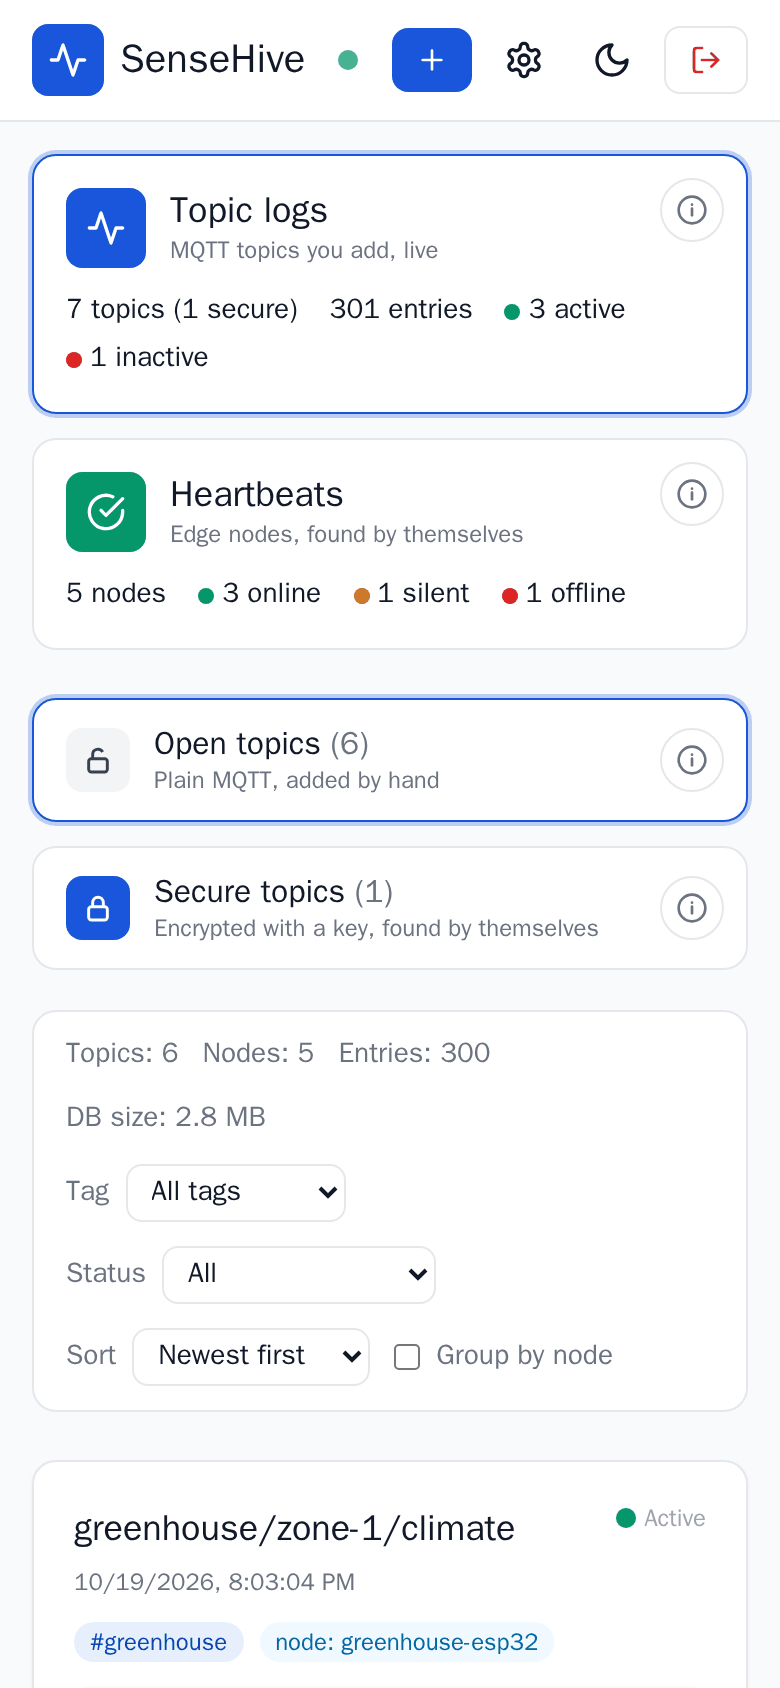
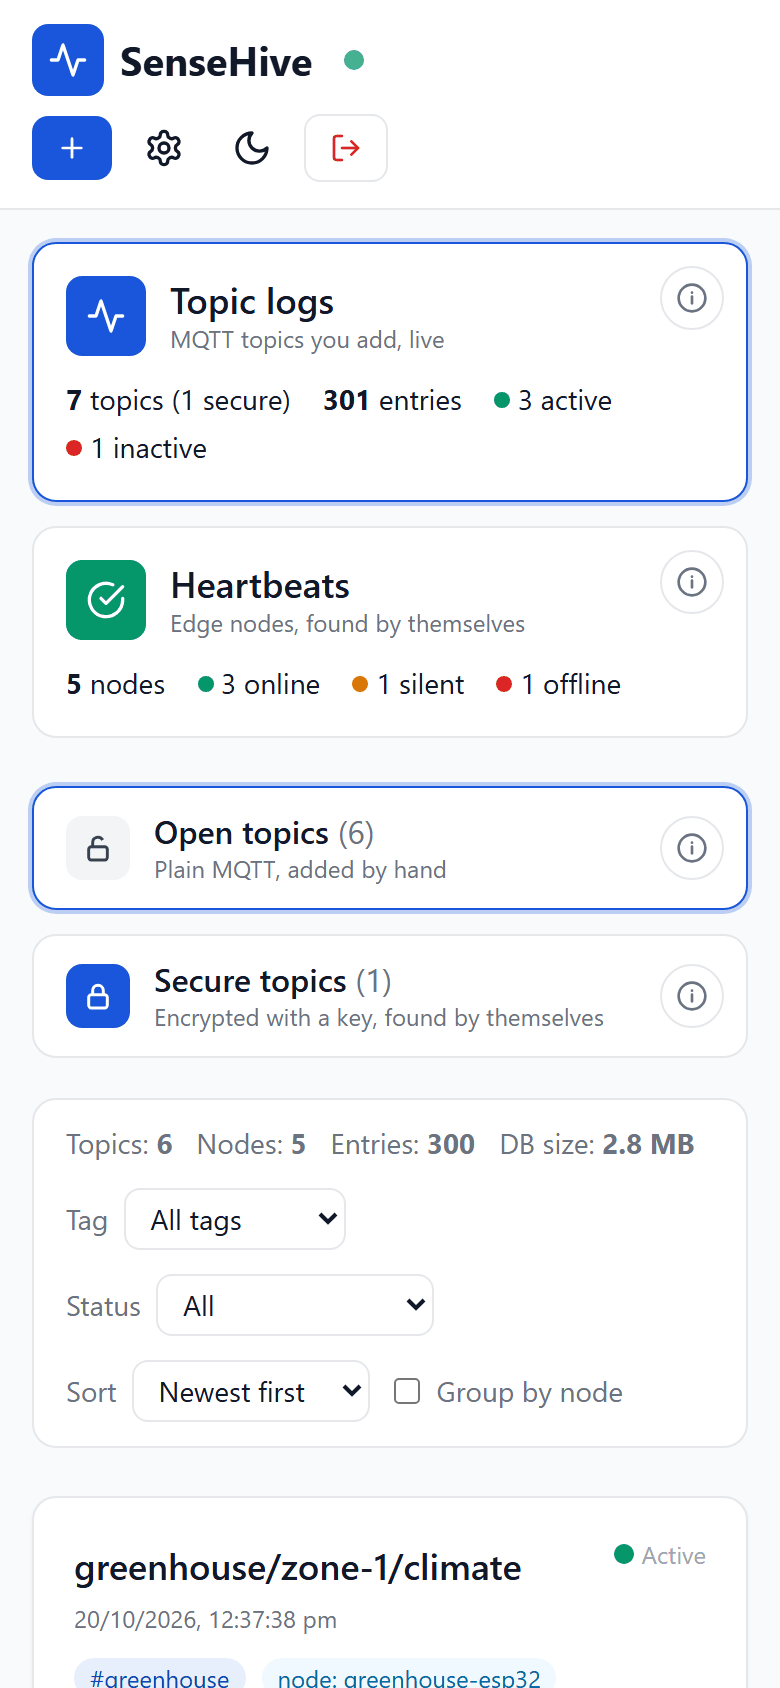
Docs: the live demo, a current CI table, and screenshots with the heartbeat broker connected
The README, Docker Hub page and docs index link the public demo
(sense-hive-latest.onrender.com, the :demo tag). DEVELOPMENT.md lists
every CI job as it runs today. tools/screenshots.py --broker now also
connects the heartbeat receiver, so the Heartbeats pictures show
'Connected to the heartbeat broker' instead of 'Not connected'; the
uptime wait no longer trips on a zero-height first bar.

diff --git a/tools/screenshots.py b/tools/screenshots.py
@@ -7,7 +7,7 @@ browser UI test fills its own, but with an example site (greenhouse, cold room,
 pump house...) instead of the test's edge cases. Made-up data, no real devices.
 
     python tools/screenshots.py                          # writes assets/*.png
-    python tools/screenshots.py --broker 127.0.0.1:1883  # "Connected" in the header
+    python tools/screenshots.py --broker 127.0.0.1:1883  # "Connected" in the header and on Heartbeats
 """
 import argparse
 import os
@@ -70,7 +70,8 @@ def main():
     os.makedirs(OUT, exist_ok=True)
     if a.broker:
         host, _, port = a.broker.partition(':')
-        os.environ.update(DEFAULT_BROKER_HOST=host, DEFAULT_BROKER_PORT=port or '1883', SENSEHIVE_FORCE_BROKER='true')
+        os.environ.update(DEFAULT_BROKER_HOST=host, DEFAULT_BROKER_PORT=port or '1883', SENSEHIVE_FORCE_BROKER='true',
+                          HEARTBEAT_BROKER=host, HEARTBEAT_PORT=port or '1883', HEARTBEAT_TLS='false')
     random.seed(11)
     base = ui_test.serve(5098)
     import time
@@ -83,6 +84,7 @@ def main():
         conn.commit()
     if a.broker:
         sensehive.init_mqtt()                        # as `sensehive` does at start
+        sensehive.heartbeat_receiver.start(sensehive.new_mqtt_client)   # "Connected to the heartbeat broker"
     from playwright.sync_api import sync_playwright
     with sync_playwright() as pw:
         browser = pw.chromium.launch()
@@ -137,7 +139,8 @@ def main():
         ui_test.settle(page)
         shot(page, 'heartbeat-history.png')
         page.click('.sh-modal [data-range="7d"]')
-        page.wait_for_selector('.sh-modal svg rect', timeout=15000)
+        # a bar with height: the first one may be a day with no downtime (height 0)
+        page.locator('.sh-modal svg rect[height]:not([height="0"])').first.wait_for(timeout=15000)
         ui_test.settle(page)
         shot(page, 'heartbeat-uptime.png')
         page.keyboard.press('Escape')

diff --git a/docs/DEVELOPMENT.md b/docs/DEVELOPMENT.md
@@ -132,14 +132,21 @@ Every pull request and push to `main` runs (all required for merging):
 
 | Job | Checks |
 | --- | ------ |
-| Tests (Python 3.9, 3.11, 3.12, 3.13; paho-mqtt 1.x) | pytest against a real Mosquitto broker |
-| Lint and static checks | ruff, no em dashes in text |
-| Security scans | Bandit, pip-audit |
-| Front-end build | `npm ci` and `npm run check` |
-| Browser UI | `tools/ui_test.py --min-checks 140` |
-| pip package | wheel build, install in a clean venv, CLI smoke test |
-| Docker image | build, no database in the image, health check, CSP header and static files served |
+| Tests (several Python versions; paho-mqtt 1.x) | pytest against a real Mosquitto broker |
+| Lint and static checks | ruff, no em dashes in text, no private names (a secret list) |
+| Security scans | Bandit (also `demo/`), pip-audit |
+| Front-end build | `npm ci` and `npm run check`, nothing loaded from another host |
+| Browser UI | `tools/ui_test.py --min-checks 500`: every page and dialog, phone to desktop, zoom 67 to 200 % |
+| pip package | wheel build, install in a clean venv, CLI smoke test, then the quick start end to end (`tools/live_e2e.py`, a broker, `sensehive-demo`, a browser) |
+| Docker image | build, no database in the image, health check, CSP header and static files, then the same quick start with `docker run` |
+| Screenshots | `tools/screenshots.py --broker`: every picture the docs use, from a real SenseHive (kept as an artifact) |
+| Public demo image | `demo/Dockerfile` in 512 MB, checked as a visitor (`tools/demo_e2e.py`, 30 checks) |
 | CodeQL | Python and JavaScript |
 
-Tags `vX.Y.Z` publish the multi-arch image, the Docker Hub description, the
-PyPI package and a GitHub release (`cd.yml`).
+The Devices workflow (`devices.yml`) runs the PowerPulse firmware's messages and
+the heartbeat agent on a systemd node against this SenseHive.
+
+Every push to `main` publishes `devprincekumar/sense-hive:edge` and the public
+demo image `:demo` (and calls the demo host's deploy hook when `DEMO_DEPLOY_HOOK`
+is set). Tags `vX.Y.Z` publish the multi-arch image, the Docker Hub description,
+the PyPI package and a GitHub release (`cd.yml`).

diff --git a/DOCKERHUB.md b/DOCKERHUB.md
@@ -32,6 +32,8 @@ under **Settings**.
 | Tag | Description |
 | --- | ----------- |
 | `latest` | Latest release, multi-arch (amd64 + arm64) |
+| `demo` | The public demo in one container: SenseHive from `main`, a private broker, heartbeat agents, a PowerPulse node and an emulated fleet (amd64). `docker run -p 10000:10000 -e PORT=10000 devprincekumar/sense-hive:demo`, or try it live: https://sense-hive-latest.onrender.com |
+| `edge` | The `main` branch, multi-arch, not a release |
 | `1.8.2`, `1.8` | SenseHive 1.8.2, multi-arch |
 | `1.7.0`, `1.7` | SenseHive 1.7.0 |
 | `1.6.1`, `1.6` | SenseHive 1.6.1 |
@@ -63,6 +65,10 @@ Apple Silicon). Docker picks the right architecture automatically.
 | Security | Login-protected UI and API, no CDN and a strict Content Security Policy, SQL-safe topic names, salted slow password hashes, lockout after repeated failed sign-ins, CSRF protection, HttpOnly cookies, persistent random session secret, no data baked into the image |
 | Operations | `/api/health` and `/api/status` endpoints, Docker HEALTHCHECK, timezone-aware timestamps |
 | Heartbeats (1.2) | Optional receiver for the [MQTT heartbeat agent](https://github.com/855princekumar/mqtt-heartbeat-service): encrypted, authenticated heartbeats and LWT over a public broker, `/heartbeats` page, read-only API. Off unless `HEARTBEAT_MASTER_KEY` is set |
+
+## Live demo
+
+https://sense-hive-latest.onrender.com (sign in as `admin` / `admin123`): an emulated fleet, four real heartbeat agents and a PowerPulse node on a private broker. It is the `demo` tag above.
 
 ## What's new in 1.8.2
 

diff --git a/README.md b/README.md
@@ -8,6 +8,11 @@
 
 **Run → Add Topic → Publish → See Data in under 30 seconds.**
 
+**[Try the live demo](https://sense-hive-latest.onrender.com)** (sign in as `admin` / `admin123`): the current SenseHive with an
+emulated fleet, four real [heartbeat agents](https://github.com/855princekumar/mqtt-heartbeat-service)
+and a [PowerPulse](https://github.com/855princekumar/powerpulse) node, on its own private broker. It
+may take a minute to wake; it starts fresh each time. [How it is built](demo/README.md).
+
 <p align="center">
   <a href="https://sense-hive.855princekumar.workers.dev/"><img src="assets/dashboard.png" width="88%" alt="The SenseHive dashboard: topics with live values and last-will status" /></a>
 </p>
@@ -20,7 +25,7 @@ pip package, natively, or as a **Home Assistant add-on**.
 
 **Contents:** [Quick start](#quick-start) ([pip](#1-pip-package) · [Home Assistant](#2-home-assistant-add-on) ·
 [Docker](#3-docker) · [native](#4-native-install)) · [First topic](#your-first-topic) ·
-[Screenshots](#screenshots) · [Performance](#performance) · [Everything else](#index)
+[Screenshots](#screenshots) · [Performance](#performance) · [Live demo](https://sense-hive-latest.onrender.com) · [Everything else](#index)
 
 ---
 

diff --git a/docs/README.md b/docs/README.md
@@ -10,6 +10,7 @@
 | [Performance and resource use](PERFORMANCE.md) | Measured CPU, memory, API times and storage, how to size, and how to repeat the test |
 | [Security](SECURITY.md) | Sign-in hardening, sessions and cookies, the browser policy (CSP), running behind a proxy, reporting a problem |
 | [Development and testing](DEVELOPMENT.md) | Project layout, the front-end build, the theme, linting, the test suites and CI |
+| [The public demo](../demo/README.md) | The [live demo](https://sense-hive-latest.onrender.com): what runs in it, how visitors are kept from changing it, how to run and test it |
 | [Architecture decisions](adr/README.md) | Why SenseHive is built the way it is (ADRs) |
 | [Changelog](../CHANGELOG.md) | What changed in each release |
 
